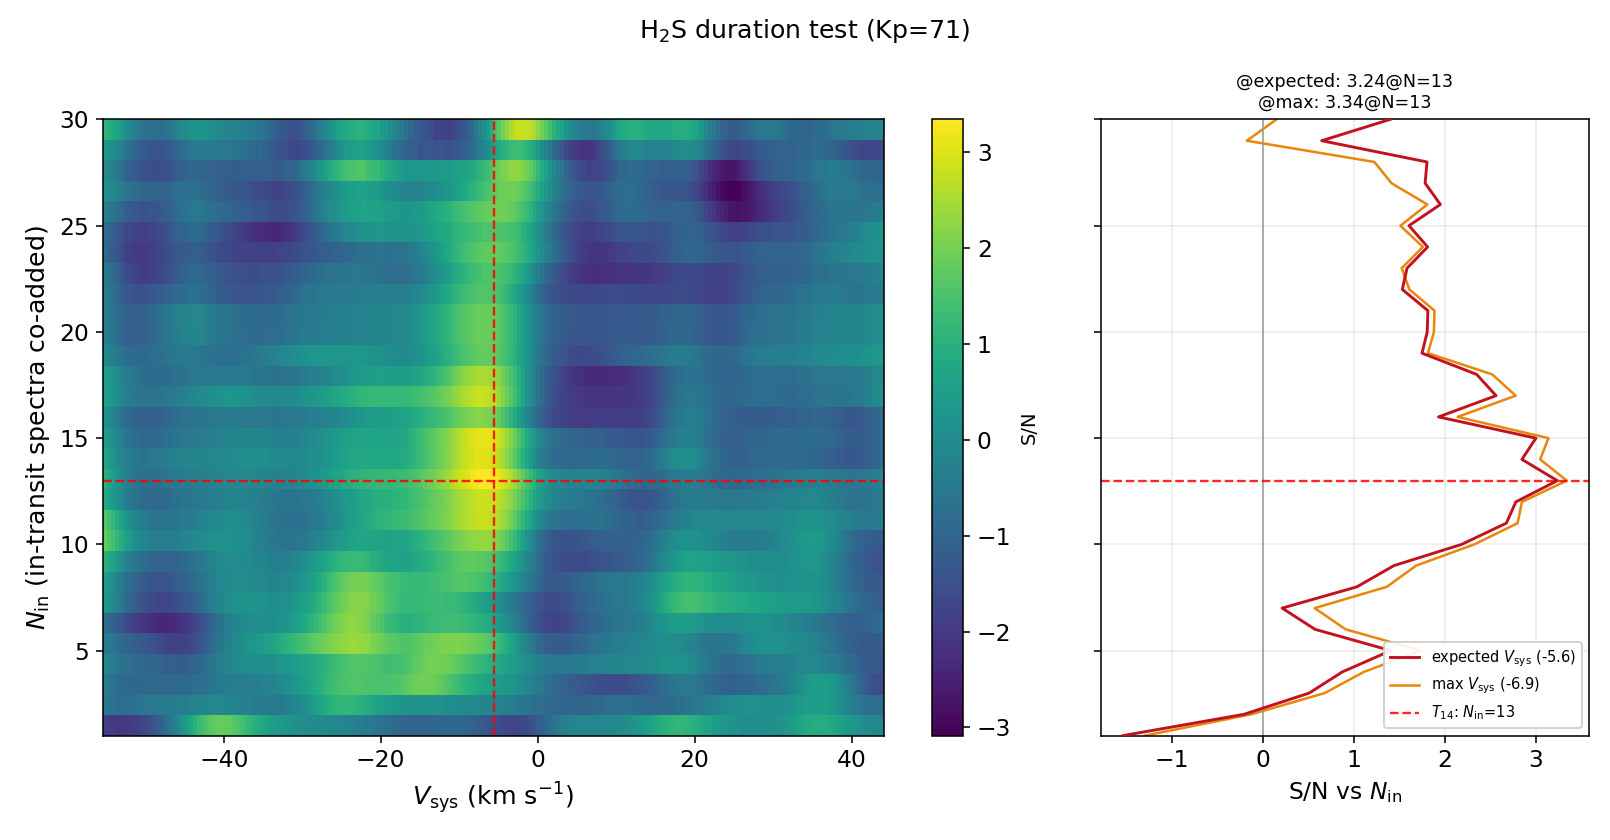
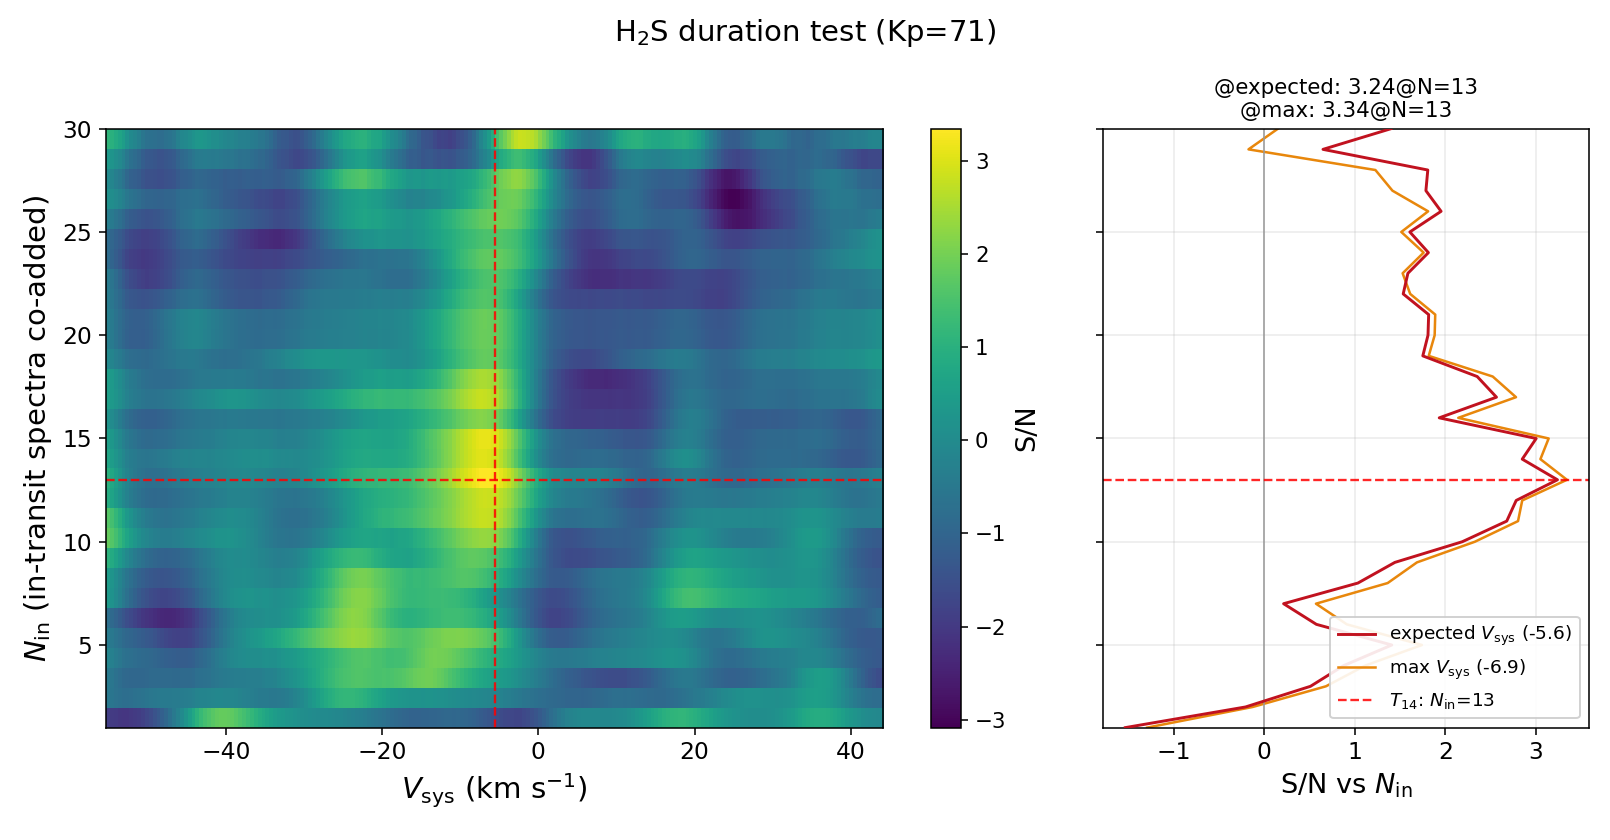
Duration plot: larger axis/colorbar/legend labels; detectability title subscripts (H2O -> H$_2$O)

diff --git a/src/exoplore/pipelines/cheverall26.py b/src/exoplore/pipelines/cheverall26.py
@@ -515,9 +515,12 @@ def chev26_plot_duration_map(snmap, vsys_axis, vsys_expected, out_path,
     axL.axvline(vsys_expected, color="r", ls="--", lw=1.2, alpha=0.85)
     if n_in_expected is not None:
         axL.axhline(n_in_expected, color="r", ls="--", lw=1.2, alpha=0.85)
-    axL.set_xlabel(r"$V_{\rm sys}$ (km s$^{-1}$)", fontsize=13)
-    axL.set_ylabel(r"$N_{\rm in}$ (in-transit spectra co-added)", fontsize=13)
-    fig.colorbar(im, ax=axL, label="S/N")
+    axL.set_xlabel(r"$V_{\rm sys}$ (km s$^{-1}$)", fontsize=15)
+    axL.set_ylabel(r"$N_{\rm in}$ (in-transit spectra co-added)", fontsize=15)
+    axL.tick_params(labelsize=12)
+    _cb = fig.colorbar(im, ax=axL)
+    _cb.set_label("S/N", fontsize=14)
+    _cb.ax.tick_params(labelsize=11)
     # Right: slices vs N_in
     axR.plot(col, n_axis, color="#c1121f", lw=1.5, zorder=3,
              label=f"expected $V_{{\\rm sys}}$ ({vsys_expected:.1f})")
@@ -528,15 +531,16 @@ def chev26_plot_duration_map(snmap, vsys_axis, vsys_expected, out_path,
     if n_in_expected is not None:
         axR.axhline(n_in_expected, color="r", ls="--", lw=1.2, alpha=0.85,
                     label=f"$T_{{14}}$: $N_{{\\rm in}}$={n_in_expected}")
-    axR.set_xlabel(r"S/N vs $N_{\rm in}$", fontsize=12)
+    axR.set_xlabel(r"S/N vs $N_{\rm in}$", fontsize=14)
+    axR.tick_params(labelsize=12)
     axR.set_title(f"@expected: {sbest:.2f}@N={kbest}\n"
-                  f"@max: {smax:.2f}@N={kmx+1}", fontsize=9)
-    axR.legend(fontsize=7.5, loc="lower right", framealpha=0.9)
+                  f"@max: {smax:.2f}@N={kmx+1}", fontsize=11)
+    axR.legend(fontsize=9.5, loc="lower right", framealpha=0.9)
     axR.grid(alpha=0.25)
     if title is None:
         title = ("H$_2$S duration test"
                  + (f" (Kp={kp:.0f})" if kp is not None else ""))
-    fig.suptitle(title, fontsize=13)
+    fig.suptitle(title, fontsize=15)
     fig.tight_layout()
     fig.savefig(out_path, dpi=140)
     plt.close(fig)

diff --git a/src/exoplore/plotting/detectability.py b/src/exoplore/plotting/detectability.py
@@ -53,6 +53,13 @@ def _auto_last3_levels(snr_max: float) -> np.ndarray:
     return np.arange(5, highest + 1, 5)[-3:].astype(float)
 
 
+def _mathtext_molecule(name: str) -> str:
+    """Render a plain molecule name with subscripted digits for a title,
+    e.g. ``H2O`` -> ``H$_2$O``, ``CO2`` -> ``CO$_2$``."""
+    import re
+    return re.sub(r"(\d+)", r"$_{\1}$", name)
+
+
 def plot_detectability_map(
     data_dir: str,
     x_variable: str = "metallicity_wrt_solar",
@@ -169,7 +176,7 @@ def plot_detectability_map(
     cb.set_label("S/N", fontsize=18)
     cb.ax.tick_params(labelsize=17)
 
-    ax.set_title(molecule, fontsize=20)
+    ax.set_title(_mathtext_molecule(molecule), fontsize=20)
     ax.set_xlabel(xlabel, fontsize=20)
     ax.set_ylabel(ylabel, fontsize=20)
     ax.set_xlim(xp.min(), xp.max())
